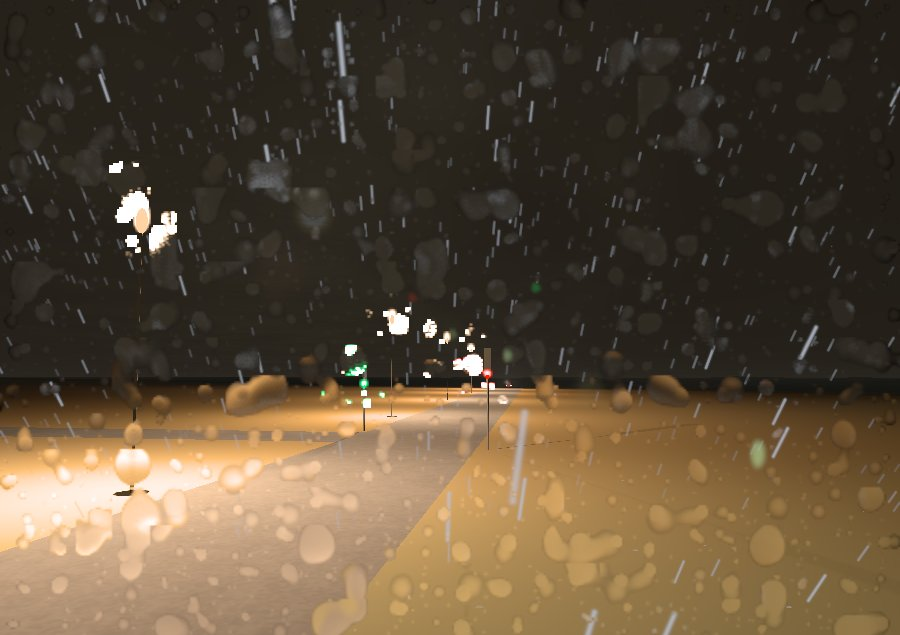
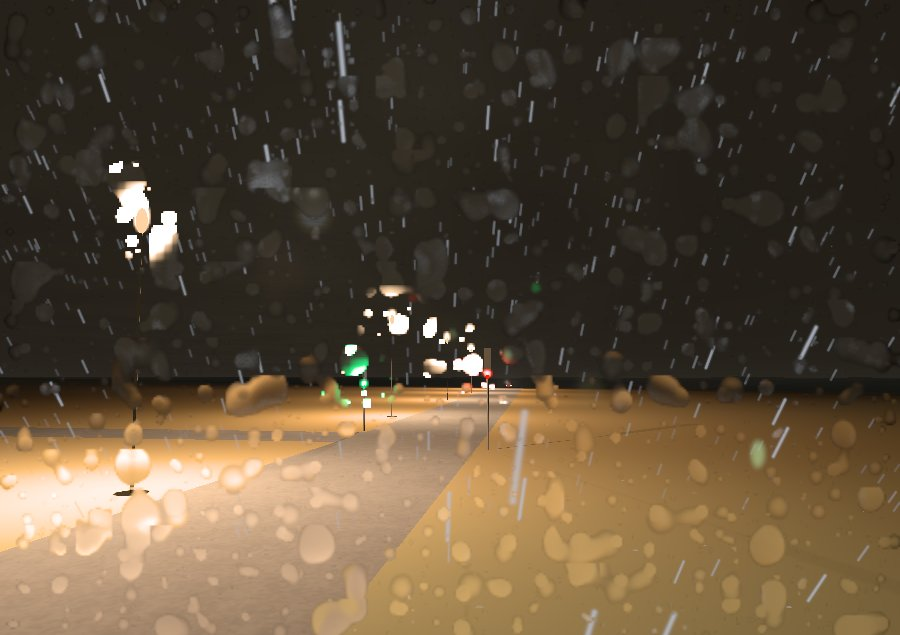
The halo the drops on a glass scatter round a light is a round blur of the picture
A light thousands of times the white of the picture is white wherever any of its halo
reaches, so the halo takes the shape of what the blur reaches: the square of a mipmap's
texel, and then of two cut Gaussians. Now one pass over an eighth of the picture, by
weights of the distance alone that end on a circle (about 0.5 ms), read once per pixel
instead of twelve taps. The fine droplets no longer carry it: a few pixels each at half
the picture's size, each one round a streetlight was a white square.

diff --git a/src/render3d/GhostPass.ts b/src/render3d/GhostPass.ts
@@ -63,6 +63,16 @@ export class GhostPass {
   private readonly mips: WebGLRenderTarget
   /** The ghosts alone, at that same half size. */
   private readonly ghostLayer: WebGLRenderTarget
+  /**
+   * The picture's light blurred to the halo the drops on a glass scatter round each light (see HALO_LEVEL), by weights that depend on the
+   * distance alone and fade out to nothing on a circle. A light thousands of times the white of the picture is white wherever any of its halo
+   * reaches, so the halo takes the shape of what the blur reaches: read from a level of the mipmaps, that was the square of a texel; blurred
+   * across then down, the square that two cut Gaussians reach. Round now, whatever the light.
+   */
+  private readonly halo: WebGLRenderTarget
+  private readonly haloMaterial: ShaderMaterial
+  /** The level of the mipmaps the drops' halo is blurred at: a texel of eight of the picture's pixels each way, which a halo of tens of them spans several of. */
+  private static readonly HALO_LEVEL = 2
   private readonly quadScene = new Scene()
   private readonly quadCamera = new OrthographicCamera(-1, 1, 1, -1, 0, 1)
   private readonly quad: Mesh
@@ -81,6 +91,8 @@ export class GhostPass {
     const half = size(Math.ceil(width / 2), Math.ceil(height / 2))
     this.mips = new WebGLRenderTarget(...half, { type: HalfFloatType, generateMipmaps: true, minFilter: LinearMipmapLinearFilter, magFilter: LinearFilter })
     this.ghostLayer = new WebGLRenderTarget(...half, { type: HalfFloatType })
+    const halo = GhostPass.haloSize(half[0], half[1])
+    this.halo = new WebGLRenderTarget(halo[0], halo[1], { type: HalfFloatType, minFilter: LinearFilter, magFilter: LinearFilter })
     const vertexShader = `
       varying vec2 vUv;
       void main() {
@@ -105,9 +117,40 @@ export class GhostPass {
       depthWrite: false
     })
     const n = GhostPass.MAX_GHOSTS
+    // Taps a sigma apart on a grid (each read through the texels' own filtering), out to three sigmas: a Gaussian, brought down to nothing
+    // between two and three sigmas so that it ends on a circle rather than on the grid's square.
+    this.haloMaterial = new ShaderMaterial({
+      uniforms: { uSource: { value: null }, uLod: { value: 0 }, uStep: { value: new Vector2() } },
+      vertexShader,
+      fragmentShader: `
+        precision highp float;
+        uniform sampler2D uSource;
+        uniform float uLod;
+        uniform vec2 uStep;
+        varying vec2 vUv;
+        void main() {
+          vec3 sum = vec3(0.0);
+          float weights = 0.0;
+          for (int y = -3; y <= 3; y++) {
+            for (int x = -3; x <= 3; x++) {
+              float r2 = float(x * x + y * y);
+              if (r2 > 9.0) continue;
+              float weight = exp(-r2 / 2.0) * (1.0 - smoothstep(4.0, 9.0, r2));
+              sum += weight * textureLod(uSource, vUv + vec2(float(x), float(y)) * uStep, uLod).rgb;
+              weights += weight;
+            }
+          }
+          gl_FragColor = vec4(sum / weights, 1.0);
+        }
+      `,
+      blending: NoBlending,
+      depthTest: false,
+      depthWrite: false
+    })
     this.ghostMaterial = new ShaderMaterial({
       uniforms: {
         uMips: { value: this.mips.texture },
+        uHalo: { value: this.halo.texture },
         uSize: { value: new Vector2(1, 1) },
         uCount: { value: 0 },
         uScale: { value: new Array<number>(n).fill(1) },
@@ -131,6 +174,7 @@ export class GhostPass {
       fragmentShader: `
         precision highp float;
         uniform sampler2D uMips;
+        uniform sampler2D uHalo;
         uniform vec2 uSize;
         uniform int uCount;
         uniform float uScale[${n}];
@@ -298,6 +342,9 @@ export class GhostPass {
 
         // The wet glass at this point of the picture: how much a drop covers it, and the offset (in the picture's own coordinates) by which
         // the drop there refracts.
+        // Whether the point drops() last looked at is a fine droplet rather than a drop: see through, in main.
+        float fineDroplet = 0.0;
+
         vec4 drops(vec2 uv) {
           float aspect = uSize.x / uSize.y;
           vec2 q = vec2(uv.x * aspect, uv.y);
@@ -322,7 +369,10 @@ export class GhostPass {
             vec2 centre = fineCell + 0.5 + (vec2(hash(fineCell + 5.1), hash(fineCell + 6.2)) - 0.5) * 0.6;
             float away = distance(q * 90.0, centre);
             float fine = smoothstep(0.35, 0.25, away) * (1.0 - wiped);
-            if (fine > cover) return vec4(fine * 0.6, (q * 90.0 - centre) / 90.0 / vec2(aspect, 1.0), 0.4 + 0.6 * smoothstep(0.35, 0.1, away));
+            if (fine > cover) {
+              fineDroplet = 1.0;
+              return vec4(fine * 0.6, (q * 90.0 - centre) / 90.0 / vec2(aspect, 1.0), 0.4 + 0.6 * smoothstep(0.35, 0.1, away));
+            }
           }
           return vec4(cover, pull / max(total, 1e-3) / size / vec2(aspect, 1.0), shade);
         }
@@ -379,9 +429,11 @@ export class GhostPass {
             // rather than ending in a hard rectangle of the picture's own edges (a lit road cut by the frame). The same for every light.
             float fade = max(2.0 * radiusPx, 2.0) / uSize.y;
             float vignette = GhostPass_edgeFade(from, fade, uSize);
-            vec3 light = uKind[i] < 0.5 ? shaped(from, radiusPx, k < 0.0 ? 3.14159265 : 0.0) : blurred(from, radiusPx);
+            vec3 light = uKind[i] < 0.5 ? shaped(from, radiusPx, k < 0.0 ? 3.14159265 : 0.0) : uKind[i] > 1.5 ? texture2D(uHalo, from).rgb : blurred(from, radiusPx);
             // A drop's halo is where the drops are, and as much brighter there as they leave the rest of the glass clear.
-            float through = uKind[i] > 1.5 ? drop.x / 0.3 : 1.0;
+            // Not through the fine droplets: a few pixels each, and drawn at half the picture's size, a light thousands
+            // of times the white of the picture made every one round a streetlight a white square, whatever share of its halo it was given.
+            float through = uKind[i] > 1.5 ? (1.0 - fineDroplet) * drop.x / 0.3 : 1.0;
             sum += vignette * through * uTint[i] * uShare[i] * light / (k * k);
           }
           gl_FragColor = vec4(sum, drop.x);
@@ -451,6 +503,8 @@ export class GhostPass {
       ;(uniforms.uOffset.value as Vector2[])[i].set(ghost.offset?.[0] ?? 0, ghost.offset?.[1] ?? 0)
       ;(uniforms.uTint.value as Vector3[])[i].set(...(ghost.tint ?? [1, 1, 1]))
     }
+    const drops = optics.ghosts.slice(0, count).find(ghost => ghost.cause === "drops")
+    if (drops) this.blurHalo(renderer, drops.blur)
     uniforms.uBlades.value = optics.blades
     uniforms.uBladeAngle.value = optics.bladeAngleRad
     uniforms.uDrops.value = optics.drops
@@ -579,6 +633,23 @@ export class GhostPass {
     return t * t * (3 - 2 * t)
   }
 
+  /** Blurs the picture's light to the halo of the drops, of this defocus (a share of the picture's height): a sigma of half its radius. */
+  private blurHalo(renderer: WebGLRenderer, blur: number): void {
+    const target = this.halo
+    const sigma = Math.max(0.5, (blur * target.height) / 2)
+    const uniforms = this.haloMaterial.uniforms
+    uniforms.uSource.value = this.mips.texture
+    uniforms.uLod.value = GhostPass.HALO_LEVEL
+    ;(uniforms.uStep.value as Vector2).set(sigma / target.width, sigma / target.height)
+    this.draw(renderer, this.haloMaterial, target)
+  }
+
+  /** The size of the drops' halo, from the half picture's: its level of the mipmaps (see HALO_LEVEL). */
+  private static haloSize(width: number, height: number): [number, number] {
+    const scale = 2 ** GhostPass.HALO_LEVEL
+    return [Math.max(1, Math.floor(width / scale)), Math.max(1, Math.floor(height / scale))]
+  }
+
   resize(width: number, height: number): void {
     const w = Math.max(1, width), h = Math.max(1, height)
     // Its storage made again at another size holds nothing until the next picture is developed into it (see readable).
@@ -587,6 +658,8 @@ export class GhostPass {
     this.frame.overlay.setSize(w, h)
     this.mips.setSize(Math.ceil(w / 2), Math.ceil(h / 2))
     this.ghostLayer.setSize(Math.ceil(w / 2), Math.ceil(h / 2))
+    const halo = GhostPass.haloSize(Math.ceil(w / 2), Math.ceil(h / 2))
+    this.halo.setSize(halo[0], halo[1])
   }
 
   dispose(): void {
@@ -594,6 +667,8 @@ export class GhostPass {
     this.frame.overlay.dispose()
     this.mips.dispose()
     this.ghostLayer.dispose()
+    this.halo.dispose()
+    this.haloMaterial.dispose()
     this.copyMaterial.dispose()
     this.ghostMaterial.dispose()
     this.developMaterial.dispose()
